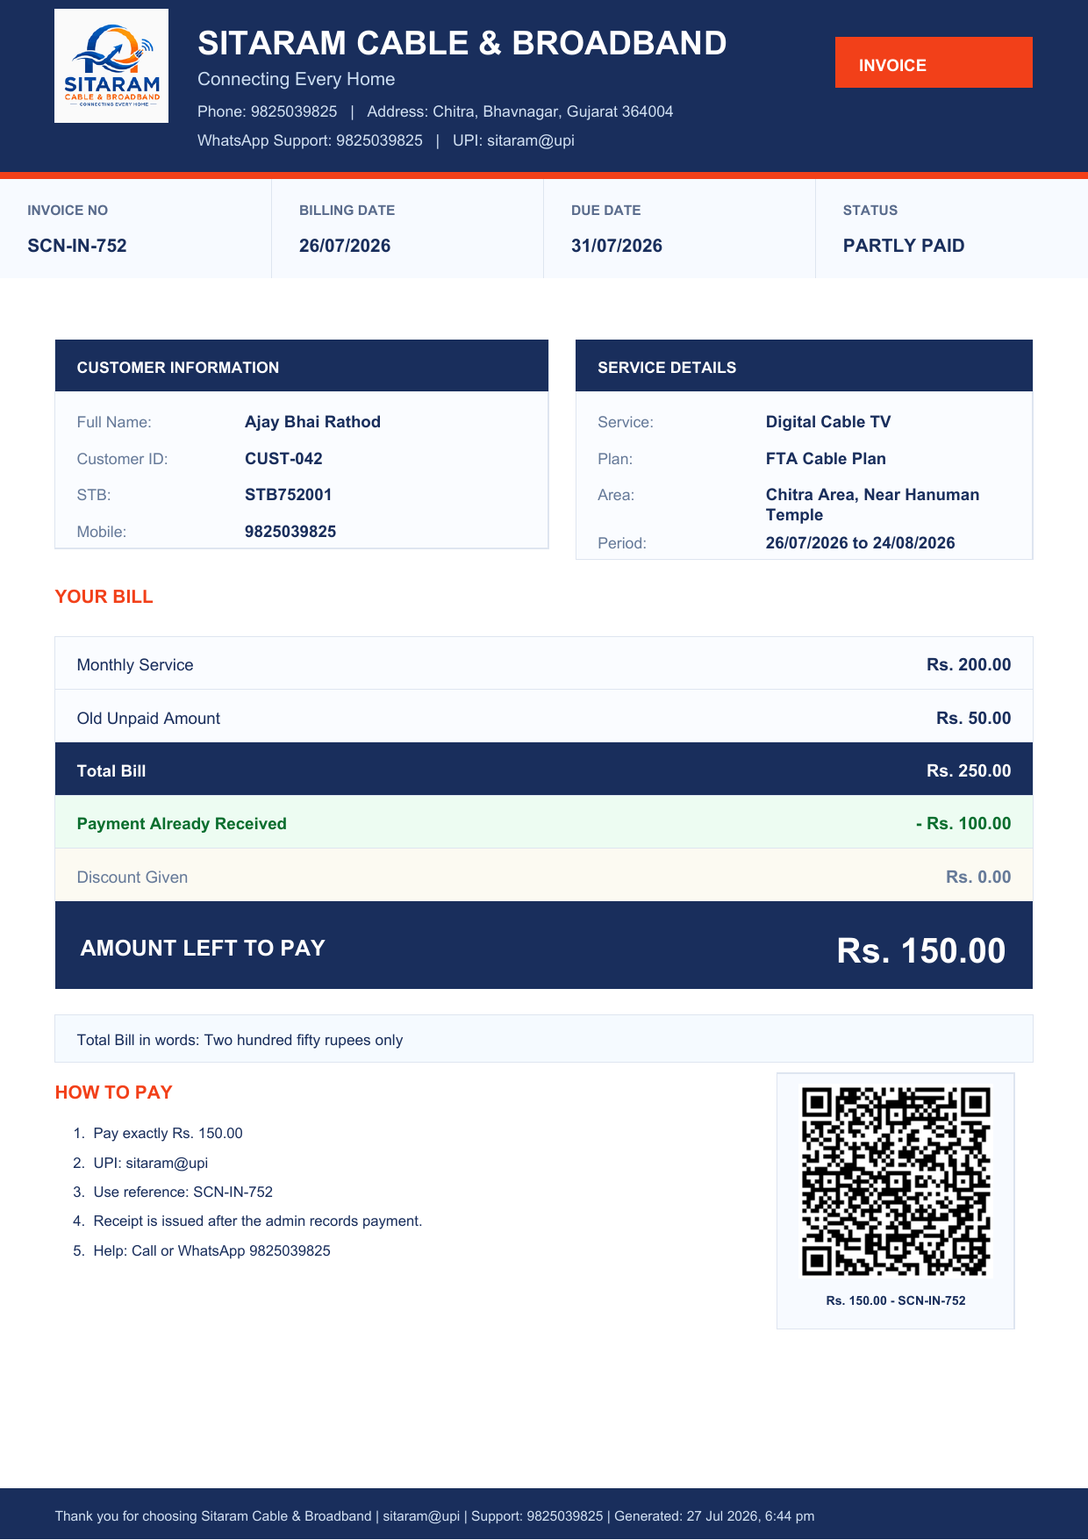
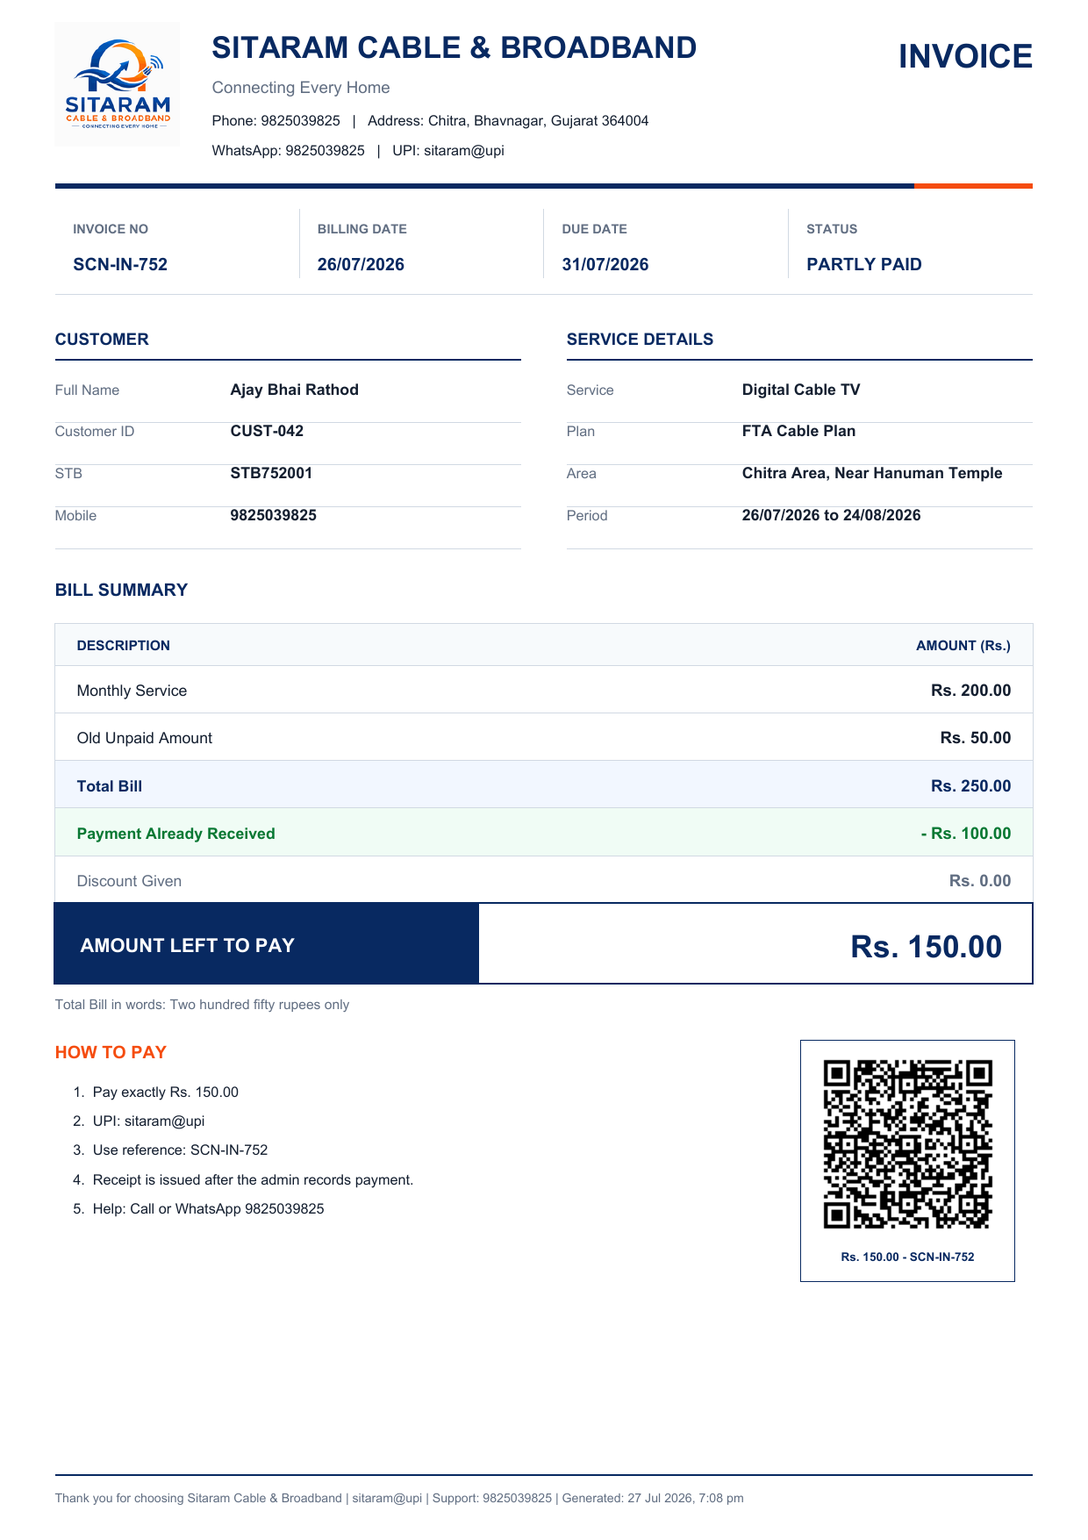
Refine branded invoice and receipt design

diff --git a/src/lib/documents.ts b/src/lib/documents.ts
@@ -219,48 +219,52 @@ type StatementData = Record<string, any>
 async function createStatementPdf(variant: StatementVariant, data: StatementData, settings: BusinessSettings) {
   const pdf = await PDFDocument.create(); const gujaratiBytes = await fetch(gujaratiFontUrl).then((response) => response.arrayBuffer())
   const fonts: StatementFonts = { regular: await pdf.embedFont(StandardFonts.Helvetica), bold: await pdf.embedFont(StandardFonts.HelveticaBold), gujarati: fontkit.create(new Uint8Array(gujaratiBytes)) }
-  const accent = variant === 'invoice' ? rgb(.95, .25, .1) : rgb(.05, .63, .28); const navy = rgb(.1, .18, .36); const pale = variant === 'invoice' ? rgb(.99, .95, .9) : rgb(.91, .98, .93); const line = rgb(.87, .9, .94); const logo = await embedLogo(pdf, settings.logoUrl || '/logo.png')
+  const navy = rgb(.03, .16, .38); const orange = rgb(.96, .3, .06); const green = rgb(.03, .47, .2); const red = rgb(.72, .12, .1)
+  const ink = rgb(.08, .12, .19); const muted = rgb(.38, .43, .51); const line = rgb(.82, .85, .89); const soft = rgb(.97, .98, .99)
+  const accent = variant === 'invoice' ? orange : green; const logo = await embedLogo(pdf, settings.logoUrl || '/logo.png')
   const serviceLabel = data.serviceType === 'broadband' ? 'Broadband Subscription' : 'Digital Cable TV'
   const generatedAt = new Intl.DateTimeFormat('en-IN', { dateStyle: 'medium', timeStyle: 'short', timeZone: 'Asia/Kolkata' }).format(new Date())
-  const page = pdf.addPage([595, 842]); const draw = (value: string, x: number, y: number, size = 10, bold = false, color = navy) => drawMixedText(page, value, x, y, size, bold ? fonts.bold : fonts.regular, fonts.gujarati, color)
+  const page = pdf.addPage([595, 842]); const draw = (value: string, x: number, y: number, size = 10, bold = false, color = ink) => drawMixedText(page, value, x, y, size, bold ? fonts.bold : fonts.regular, fonts.gujarati, color)
   const textWidth = (value: string, size: number, bold = false) => mixedTextWidth(value, size, bold ? fonts.bold : fonts.regular, fonts.gujarati)
-  page.drawRectangle({ x: 0, y: 748, width: 595, height: 94, color: navy })
-  if (logo) page.drawImage(logo, { x: 30, y: 775, width: 62, height: 62 })
-  draw(truncateText(settings.businessName || 'Sitaram Cable & Broadband', 320, 18, fonts.bold, fonts.gujarati).toUpperCase(), 108, 812, 18, true, rgb(1, 1, 1)); draw('Connecting Every Home', 108, 795, 10, false, rgb(.8, .87, .95))
-  draw(`Phone: ${settings.phoneNumbers || ''}   |   Address: ${settings.address || ''}`, 108, 778, 8.5, false, rgb(.82, .88, .95)); draw(`WhatsApp Support: ${settings.phoneNumbers || ''}   |   UPI: ${settings.upiId || '-'}`, 108, 762, 8.5, false, rgb(.82, .88, .95))
-  page.drawRectangle({ x: 457, y: variant === 'invoice' ? 794 : 787, width: 108, height: variant === 'invoice' ? 28 : 42, color: accent, borderRadius: 5 })
-  draw(variant === 'invoice' ? 'INVOICE' : 'OFFICIAL', 470, variant === 'invoice' ? 803 : 812, 9, true, rgb(1, 1, 1)); if (variant === 'receipt') draw('PAYMENT RECEIPT', 470, 798, 8.5, true, rgb(1, 1, 1))
-  page.drawRectangle({ x: 0, y: 744, width: 595, height: 4, color: accent })
+  const right = 565
+  if (logo) page.drawImage(logo, { x: 30, y: 762, width: 68, height: 68 })
+  const businessName = truncateText(settings.businessName || 'Sitaram Cable & Broadband', 300, 16.5, fonts.bold, fonts.gujarati).toUpperCase()
+  draw(businessName, 116, 810, 16.5, true, navy); draw('Connecting Every Home', 116, 791, 9, false, muted)
+  draw(truncateText(`Phone: ${settings.phoneNumbers || '-'}   |   Address: ${settings.address || '-'}`, 305, 7.8, fonts.regular, fonts.gujarati), 116, 773, 7.8, false, ink)
+  draw(truncateText(`WhatsApp: ${settings.phoneNumbers || '-'}   |   UPI: ${settings.upiId || '-'}`, 305, 7.8, fonts.regular, fonts.gujarati), 116, 757, 7.8, false, ink)
+  const documentTitle = variant === 'invoice' ? 'INVOICE' : 'PAYMENT RECEIPT'
+  draw(documentTitle, right - textWidth(documentTitle, variant === 'invoice' ? 18 : 14, true), 805, variant === 'invoice' ? 18 : 14, true, navy)
+  if (variant === 'receipt') {
+    const recorded = 'PAYMENT RECORDED'
+    draw(recorded, right - textWidth(recorded, 8, true), 783, 8, true, green)
+  }
+  page.drawRectangle({ x: 30, y: 739, width: 535, height: 2.5, color: navy })
+  page.drawRectangle({ x: 500, y: 739, width: 65, height: 2.5, color: accent })
   const info = variant === 'invoice'
     ? [['INVOICE NO', data.invoiceCode], ['BILLING DATE', statementDate(data.issuedDate)], ['DUE DATE', statementDate(data.dueDate)], ['STATUS', invoiceStatusLabel(data.status, Number(data.liveBalancePaise || 0))]]
-    : [['RECEIPT NO', data.paymentCode], ['PAYMENT DATE', statementDate(data.paymentDate)], ['PAYMENT METHOD', data.paymentMode.toUpperCase()], ['STATUS', 'PAYMENT RECORDED']]
-  page.drawRectangle({ x: 0, y: 690, width: 595, height: 54, color: variant === 'invoice' ? rgb(.97, .98, 1) : rgb(.93, 1, .95) })
-  info.forEach(([label, value], index) => { const x = index * 148.75; if (index) page.drawLine({ start: { x, y: 690 }, end: { x, y: 744 }, thickness: .5, color: line }); draw(label, x + 15, 724, 7.5, true, variant === 'invoice' ? rgb(.35, .42, .55) : rgb(.05, .48, .22)); draw(value, x + 15, 704, 10, true, navy) })
-  let y = 656
-  if (variant === 'receipt') {
-    const paidAmount = rupee(Number(data.amountReceivedPaise || 0))
-    const paidInWords = wordsForMoney(Number(data.amountReceivedPaise || 0))
-    page.drawRectangle({ x: 0, y: 560, width: 595, height: 96, color: rgb(.06, .5, .2) })
-    draw('AMOUNT PAID', 30, 620, 11, true, rgb(1, 1, 1))
-    draw(paidAmount, 565 - textWidth(paidAmount, 29, true), 603, 29, true, rgb(1, 1, 1))
-    draw(paidInWords, 565 - textWidth(paidInWords, 8.5), 580, 8.5, false, rgb(1, 1, 1))
-    y = 538
-  }
-  const drawCard = (x: number, width: number, title: string, fields: Array<[string, string]>) => {
-    const prepared = fields.map(([label, value]) => ({ label, lines: wrapText(value || '—', width - 116, 9, fonts.bold, fonts.gujarati) }))
-    const rowHeights = prepared.map(({ lines }) => Math.max(20, lines.length * 11 + 4))
-    const height = 34 + rowHeights.reduce((sum, value) => sum + value, 0)
-    const bottom = y - height
-    page.drawRectangle({ x, y: bottom, width, height, color: rgb(.98, .99, 1), borderColor: line, borderWidth: .7 })
-    page.drawRectangle({ x, y: y - 28, width, height: 28, color: navy })
-    draw(title, x + 12, y - 18, 8.5, true, rgb(1, 1, 1))
-    let rowY = y - 48
-    prepared.forEach(({ label, lines }, index) => {
-      draw(`${label}:`, x + 12, rowY, 8.5, false, rgb(.4, .48, .6))
-      lines.forEach((value, lineIndex) => draw(value, x + 104, rowY - lineIndex * 11, 9, true, navy))
-      rowY -= rowHeights[index]
+    : [['RECEIPT NO', data.paymentCode], ['PAYMENT DATE', statementDate(data.paymentDate)], ['PAYMENT METHOD', String(data.paymentMode || '-').toUpperCase()], ['AMOUNT PAID', rupee(Number(data.amountReceivedPaise || 0))]]
+  page.drawLine({ start: { x: 30, y: 681 }, end: { x: 565, y: 681 }, thickness: .65, color: line })
+  info.forEach(([label, value], index) => {
+    const width = 535 / 4; const x = 30 + index * width
+    if (index) page.drawLine({ start: { x, y: 690 }, end: { x, y: 728 }, thickness: .5, color: line })
+    draw(label, x + 10, 714, 7, true, muted)
+    draw(truncateText(String(value || '-'), width - 20, index === 3 && variant === 'receipt' ? 11 : 9.5, fonts.bold, fonts.gujarati), x + 10, 694, index === 3 && variant === 'receipt' ? 11 : 9.5, true, index === 3 && variant === 'receipt' ? green : navy)
+  })
+  let y = variant === 'receipt' ? 645 : 653
+  if (variant === 'receipt') draw(`Amount in words: ${wordsForMoney(Number(data.amountReceivedPaise || 0))}`, 30, 665, 7.5, false, muted)
+  const drawSection = (x: number, width: number, top: number, title: string, fields: Array<[string, string]>) => {
+    const prepared = fields.map(([label, value]) => ({ label, lines: wrapText(value || '-', width - 102, 8.5, fonts.bold, fonts.gujarati) }))
+    draw(title, x, top, 9, true, navy)
+    page.drawLine({ start: { x, y: top - 8 }, end: { x: x + width, y: top - 8 }, thickness: 1, color: navy })
+    let rowY = top - 27
+    prepared.forEach(({ label, lines }) => {
+      const rowHeight = Math.max(23, 10 + lines.length * 11)
+      draw(label, x, rowY, 7.8, false, muted)
+      lines.forEach((value, lineIndex) => draw(value, x + 96, rowY - lineIndex * 11, 8.5, true, ink))
+      page.drawLine({ start: { x, y: rowY - rowHeight + 8 }, end: { x: x + width, y: rowY - rowHeight + 8 }, thickness: .35, color: line })
+      rowY -= rowHeight
     })
-    return height
+    return top - rowY
   }
   if (variant === 'invoice') {
     const invoice = data as InvoiceDetail
@@ -277,49 +281,56 @@ async function createStatementPdf(variant: StatementVariant, data: StatementData
       ['Area', invoice.areaName],
       ['Period', `${statementDate(invoice.periodStart)} to ${statementDate(invoice.periodEnd)}`],
     ]
-    const customerCardHeight = drawCard(30, 270, 'CUSTOMER INFORMATION', customerFields)
-    const serviceCardHeight = drawCard(315, 250, 'SERVICE DETAILS', serviceFields)
-    y -= Math.max(customerCardHeight, serviceCardHeight) + 24
-    draw('YOUR BILL', 30, y, 10, true, accent)
-    y -= 18
+    const customerHeight = drawSection(30, 255, y, 'CUSTOMER', customerFields)
+    const serviceHeight = drawSection(310, 255, y, 'SERVICE DETAILS', serviceFields)
+    y -= Math.max(customerHeight, serviceHeight) + 18
+    draw('BILL SUMMARY', 30, y, 9.5, true, navy)
+    y -= 15
+    page.drawRectangle({ x: 30, y: y - 23, width: 535, height: 23, color: soft, borderColor: line, borderWidth: .5 })
+    draw('DESCRIPTION', 42, y - 15, 7.5, true, navy)
+    const amountHeading = 'AMOUNT (Rs.)'
+    draw(amountHeading, 553 - textWidth(amountHeading, 7.5, true), y - 15, 7.5, true, navy)
+    y -= 23
     const billRows = [
-      { label: 'Monthly Service', value: breakdown.monthlyServicePaise, background: rgb(.98, .99, 1), color: navy, bold: false },
-      { label: 'Old Unpaid Amount', value: breakdown.oldUnpaidPaise, background: rgb(.98, .99, 1), color: navy, bold: false },
-      { label: 'Total Bill', value: breakdown.totalBillPaise, background: navy, color: rgb(1, 1, 1), bold: true },
-      { label: 'Payment Already Received', value: breakdown.paymentReceivedPaise, background: rgb(.93, .99, .95), color: rgb(.04, .43, .18), bold: true, subtract: true },
-      { label: 'Discount Given', value: breakdown.discountGivenPaise, background: rgb(.99, .98, .95), color: breakdown.discountGivenPaise > 0 ? rgb(.78, .36, .03) : rgb(.4, .48, .6), bold: breakdown.discountGivenPaise > 0, subtract: true },
-      ...(breakdown.customerCreditUsedPaise > 0 ? [{ label: 'Customer Credit Used', value: breakdown.customerCreditUsedPaise, background: rgb(.96, .98, 1), color: navy, bold: false, subtract: true }] : []),
+      { label: 'Monthly Service', value: breakdown.monthlyServicePaise, color: ink, bold: false },
+      { label: 'Old Unpaid Amount', value: breakdown.oldUnpaidPaise, color: ink, bold: false },
+      { label: 'Total Bill', value: breakdown.totalBillPaise, color: navy, bold: true },
+      { label: 'Payment Already Received', value: breakdown.paymentReceivedPaise, color: green, bold: true, subtract: true },
+      { label: 'Discount Given', value: breakdown.discountGivenPaise, color: breakdown.discountGivenPaise > 0 ? orange : muted, bold: breakdown.discountGivenPaise > 0, subtract: true },
+      ...(breakdown.customerCreditUsedPaise > 0 ? [{ label: 'Customer Credit Used', value: breakdown.customerCreditUsedPaise, color: navy, bold: false, subtract: true }] : []),
     ]
-    for (const row of billRows) {
-      page.drawRectangle({ x: 30, y: y - 29, width: 535, height: 29, color: row.background, borderColor: line, borderWidth: .4 })
-      draw(row.label, 42, y - 19, 9, row.bold, row.color)
+    billRows.forEach((row, index) => {
+      if (index === 2) page.drawRectangle({ x: 30, y: y - 26, width: 535, height: 26, color: rgb(.95, .97, 1) })
+      else if (index === 3) page.drawRectangle({ x: 30, y: y - 26, width: 535, height: 26, color: rgb(.94, .99, .96) })
+      page.drawRectangle({ x: 30, y: y - 26, width: 535, height: 26, borderColor: line, borderWidth: .4 })
+      draw(row.label, 42, y - 17, 8.5, row.bold, row.color)
       const amount = `${row.subtract && row.value > 0 ? '- ' : ''}${rupee(row.value)}`
-      draw(amount, 553 - textWidth(amount, 9.5, true), y - 19, 9.5, true, row.color)
-      y -= 29
-    }
-    page.drawRectangle({ x: 30, y: y - 48, width: 535, height: 48, color: navy, borderRadius: 4 })
-    draw(breakdown.amountLeftPaise > 0 ? 'AMOUNT LEFT TO PAY' : 'NOTHING LEFT TO PAY', 44, y - 30, 12, true, rgb(1, 1, 1))
+      draw(amount, 553 - textWidth(amount, 9, true), y - 17, 9, true, row.color)
+      y -= 26
+    })
+    const dueColor = breakdown.amountLeftPaise > 0 ? navy : green
+    page.drawRectangle({ x: 30, y: y - 44, width: 535, height: 44, borderColor: dueColor, borderWidth: 1 })
+    page.drawRectangle({ x: 30, y: y - 44, width: 232, height: 44, color: dueColor })
+    draw(breakdown.amountLeftPaise > 0 ? 'AMOUNT LEFT TO PAY' : 'NOTHING LEFT TO PAY', 44, y - 27, 10.5, true, rgb(1, 1, 1))
     const amountLeft = rupee(breakdown.amountLeftPaise)
-    draw(amountLeft, 550 - textWidth(amountLeft, 19, true), y - 34, 19, true, rgb(1, 1, 1))
-    y -= 62
+    draw(amountLeft, 548 - textWidth(amountLeft, 17, true), y - 30, 17, true, dueColor)
+    y -= 58
+    draw(`Total Bill in words: ${wordsForMoney(breakdown.totalBillPaise)}`, 30, y, 7.5, false, muted)
+    y -= 27
 
-    page.drawRectangle({ x: 30, y: y - 26, width: 535, height: 26, color: rgb(.96, .98, 1), borderColor: line, borderWidth: .5 })
-    draw(`Total Bill in words: ${wordsForMoney(breakdown.totalBillPaise)}`, 42, y - 17, 8.3, false, navy)
-    y -= 46
-
-    draw(breakdown.amountLeftPaise > 0 ? 'HOW TO PAY' : 'PAYMENT STATUS', 30, y, 10, true, accent)
+    draw(breakdown.amountLeftPaise > 0 ? 'HOW TO PAY' : 'PAYMENT STATUS', 30, y, 9.5, true, orange)
     const instructions = breakdown.amountLeftPaise > 0
       ? [`Pay exactly ${rupee(breakdown.amountLeftPaise)}`, `UPI: ${settings.upiId || '-'}`, `Use reference: ${invoice.invoiceCode}`, 'Receipt is issued after the admin records payment.', `Help: Call or WhatsApp ${settings.phoneNumbers || '-'}`]
       : ['This bill is fully paid.', `Invoice reference: ${invoice.invoiceCode}`, `Help: Call or WhatsApp ${settings.phoneNumbers || '-'}`]
-    instructions.forEach((item, index) => draw(`${index + 1}.  ${item}`, 40, y - 22 - index * 16, 8, false, navy))
+    instructions.forEach((item, index) => draw(`${index + 1}.  ${item}`, 40, y - 21 - index * 16, 7.8, false, ink))
     const paymentUri = invoicePaymentUri(invoice, settings)
     if (paymentUri) {
       const qrData = await QRCode.toDataURL(paymentUri, { margin: 1, width: 140 })
       const qr = await pdf.embedPng(decodeDataUrl(qrData))
-      page.drawRectangle({ x: 425, y: y - 126, width: 130, height: 140, color: rgb(.97, .98, 1), borderColor: line, borderWidth: .8, borderRadius: 4 })
-      page.drawImage(qr, { x: 437, y: y - 98, width: 106, height: 106 })
+      page.drawRectangle({ x: 438, y: y - 122, width: 117, height: 132, borderColor: navy, borderWidth: .7 })
+      page.drawImage(qr, { x: 449, y: y - 94, width: 95, height: 95 })
       const qrCaption = `${rupee(breakdown.amountLeftPaise)} - ${invoice.invoiceCode}`
-      draw(qrCaption, 490 - textWidth(qrCaption, 6.8, true) / 2, y - 113, 6.8, true, navy)
+      draw(qrCaption, 496.5 - textWidth(qrCaption, 6.5, true) / 2, y - 111, 6.5, true, navy)
     }
   } else {
     const payment = data as PaymentDetail
@@ -337,39 +348,39 @@ async function createStatementPdf(variant: StatementVariant, data: StatementData
       ...(payment.phone ? [['Mobile', payment.phone] as [string, string]] : []),
       ['Area', payment.areaName],
     ]
-    const paymentCardHeight = drawCard(30, 270, 'PAYMENT INFORMATION', paymentFields)
-    const customerCardHeight = drawCard(315, 250, 'CUSTOMER INFORMATION', customerFields)
-    y -= Math.max(paymentCardHeight, customerCardHeight) + 24
+    const customerHeight = drawSection(30, 255, y, 'CUSTOMER', customerFields)
+    const paymentHeight = drawSection(310, 255, y, 'PAYMENT DETAILS', paymentFields)
+    y -= Math.max(customerHeight, paymentHeight) + 18
 
-    draw('WHERE THIS PAYMENT WAS USED', 30, y, 10, true, rgb(.05, .55, .24))
-    y -= 18
-    page.drawRectangle({ x: 30, y: y - 27, width: 535, height: 27, color: navy })
-    draw('Bill Item', 42, y - 18, 8, true, rgb(1, 1, 1))
+    draw('WHERE THIS PAYMENT WAS USED', 30, y, 9.5, true, navy)
+    y -= 15
+    page.drawRectangle({ x: 30, y: y - 23, width: 535, height: 23, color: navy })
+    draw('BILL ITEM', 42, y - 15, 7.5, true, rgb(1, 1, 1))
     const amountHeading = 'Amount Covered'
-    draw(amountHeading, 553 - textWidth(amountHeading, 8, true), y - 18, 8, true, rgb(1, 1, 1))
-    y -= 27
+    draw(amountHeading.toUpperCase(), 553 - textWidth(amountHeading.toUpperCase(), 7.5, true), y - 15, 7.5, true, rgb(1, 1, 1))
+    y -= 23
 
     const allocations = Array.isArray(payment.allocations) ? payment.allocations : []
     const visibleAllocations = allocations.slice(0, 3)
     if (!visibleAllocations.length) {
-      page.drawRectangle({ x: 30, y: y - 30, width: 535, height: 30, color: rgb(.98, .99, 1), borderColor: line, borderWidth: .4 })
-      draw('Payment recorded to the customer account', 42, y - 19, 8.5, false, navy)
-      y -= 30
+      page.drawRectangle({ x: 30, y: y - 28, width: 535, height: 28, color: soft, borderColor: line, borderWidth: .4 })
+      draw('Payment recorded to the customer account', 42, y - 18, 8.2, false, ink)
+      y -= 28
     }
     for (const item of visibleAllocations) {
       const label = item.chargeType === 'opening_due' ? 'Old Unpaid Amount' : 'Monthly Service'
       const period = `${item.invoiceCode} | ${statementDate(item.periodStart)} to ${statementDate(item.periodEnd)}`
       const covered = Number(item.cashPaise || 0) + Number(item.discountPaise || 0) + Number(item.creditPaise || 0)
-      page.drawRectangle({ x: 30, y: y - 34, width: 535, height: 34, color: rgb(.98, .99, 1), borderColor: line, borderWidth: .4 })
-      draw(label, 42, y - 15, 8.5, true, navy)
+      page.drawRectangle({ x: 30, y: y - 34, width: 535, height: 34, color: soft, borderColor: line, borderWidth: .4 })
+      draw(label, 42, y - 15, 8.3, true, ink)
       draw(truncateText(period, 350, 6.8, fonts.regular, fonts.gujarati), 42, y - 27, 6.8, false, rgb(.4, .48, .6))
       const coveredAmount = rupee(covered)
-      draw(coveredAmount, 553 - textWidth(coveredAmount, 8.5, true), y - 21, 8.5, true, navy)
+      draw(coveredAmount, 553 - textWidth(coveredAmount, 8.5, true), y - 21, 8.5, true, ink)
       y -= 34
     }
     if (allocations.length > visibleAllocations.length) {
       const remaining = `${allocations.length - visibleAllocations.length} more bill item(s) are saved in the customer account.`
-      page.drawRectangle({ x: 30, y: y - 20, width: 535, height: 20, color: rgb(.96, .98, 1) })
+      page.drawRectangle({ x: 30, y: y - 20, width: 535, height: 20, color: soft })
       draw(remaining, 42, y - 14, 7.2, false, rgb(.4, .48, .6))
       y -= 20
     }
@@ -380,27 +391,33 @@ async function createStatementPdf(variant: StatementVariant, data: StatementData
       ...(breakdown.customerCreditUsedPaise > 0 ? [{ label: 'Customer Credit Used', value: breakdown.customerCreditUsedPaise, color: navy, bold: false }] : []),
       { label: 'Total Bill Covered', value: breakdown.totalBillCoveredPaise, color: navy, bold: true },
     ]
-    for (const row of receiptRows) {
-      page.drawRectangle({ x: 30, y: y - 25, width: 535, height: 25, color: rgb(.98, .99, 1), borderColor: line, borderWidth: .4 })
+    receiptRows.forEach((row, index) => {
+      if (index === 0) page.drawRectangle({ x: 30, y: y - 24, width: 535, height: 24, color: rgb(.94, .99, .96) })
+      else if (index === receiptRows.length - 1) page.drawRectangle({ x: 30, y: y - 24, width: 535, height: 24, color: rgb(.95, .97, 1) })
+      page.drawRectangle({ x: 30, y: y - 24, width: 535, height: 24, borderColor: line, borderWidth: .4 })
       draw(row.label, 42, y - 17, 8.5, row.bold, row.color)
       const amount = rupee(row.value)
       draw(amount, 553 - textWidth(amount, 9, true), y - 17, 9, true, row.color)
-      y -= 25
-    }
+      y -= 24
+    })
 
-    const unpaidColor = breakdown.amountStillUnpaidPaise > 0 ? rgb(.72, .13, .1) : rgb(.04, .43, .18)
-    page.drawRectangle({ x: 30, y: y - 42, width: 535, height: 42, color: breakdown.amountStillUnpaidPaise > 0 ? rgb(1, .95, .95) : rgb(.93, .99, .95), borderColor: unpaidColor, borderWidth: .8, borderRadius: 4 })
-    draw(breakdown.amountStillUnpaidPaise > 0 ? 'AMOUNT STILL UNPAID' : 'NOTHING LEFT UNPAID', 42, y - 27, 10.5, true, unpaidColor)
+    const unpaidColor = breakdown.amountStillUnpaidPaise > 0 ? red : green
+    page.drawRectangle({ x: 30, y: y - 40, width: 535, height: 40, color: breakdown.amountStillUnpaidPaise > 0 ? rgb(1, .97, .97) : rgb(.95, .99, .96), borderColor: unpaidColor, borderWidth: .8 })
+    draw(breakdown.amountStillUnpaidPaise > 0 ? 'AMOUNT STILL UNPAID' : 'NOTHING LEFT UNPAID', 42, y - 25, 9.5, true, unpaidColor)
     const unpaidAmount = rupee(breakdown.amountStillUnpaidPaise)
-    draw(unpaidAmount, 553 - textWidth(unpaidAmount, 15, true), y - 30, 15, true, unpaidColor)
-    y -= 56
+    draw(unpaidAmount, 553 - textWidth(unpaidAmount, 14, true), y - 27, 14, true, unpaidColor)
+    y -= 53
 
-    page.drawRectangle({ x: 30, y: y - 28, width: 535, height: 28, color: pale })
-    draw('Customer Account Status', 42, y - 19, 8.5, true, navy)
+    page.drawLine({ start: { x: 30, y }, end: { x: 565, y }, thickness: .55, color: line })
+    draw('Customer Account Status', 30, y - 18, 8.2, true, ink)
     const accountStatus = breakdown.amountStillUnpaidPaise > 0 ? 'PARTLY PAID' : 'FULLY PAID'
-    draw(accountStatus, 553 - textWidth(accountStatus, 9, true), y - 19, 9, true, breakdown.amountStillUnpaidPaise > 0 ? rgb(.78, .36, .03) : rgb(.04, .43, .18))
+    draw(accountStatus, 565 - textWidth(accountStatus, 8.5, true), y - 18, 8.5, true, breakdown.amountStillUnpaidPaise > 0 ? orange : green)
   }
-  page.drawRectangle({ x: 0, y: 0, width: 595, height: 28, color: navy }); draw(variant === 'invoice' ? `Thank you for choosing ${settings.businessName || 'Sitaram Billing'} | ${settings.upiId || ''} | Support: ${settings.phoneNumbers || ''} | Generated: ${generatedAt}` : `Computer Generated Receipt - No Signature Required | ${settings.businessName || 'Sitaram Billing'} | ${settings.phoneNumbers || ''} | Generated: ${generatedAt}`, 30, 10, 7.5, false, rgb(.82, .88, .95))
+  page.drawLine({ start: { x: 30, y: 35 }, end: { x: 565, y: 35 }, thickness: 1, color: navy })
+  const footer = variant === 'invoice'
+    ? `Thank you for choosing ${settings.businessName || 'Sitaram Billing'} | ${settings.upiId || ''} | Support: ${settings.phoneNumbers || ''} | Generated: ${generatedAt}`
+    : `Computer Generated Receipt - No Signature Required | ${settings.businessName || 'Sitaram Billing'} | ${settings.phoneNumbers || ''} | Generated: ${generatedAt}`
+  draw(truncateText(footer, 535, 6.8, fonts.regular, fonts.gujarati), 30, 20, 6.8, false, muted)
   return pdf.save({ useObjectStreams: false })
 }
 

diff --git a/tests/documents.test.ts b/tests/documents.test.ts
@@ -66,7 +66,7 @@ describe('PDF generation', () => {
       allocations: [{ invoiceCode: 'INV-001', periodStart: '2026-07-19', periodEnd: '2026-08-17', chargeType: 'service', cashPaise: 15000, discountPaise: 5000, creditPaise: 0 }],
     }
     const bytes = await receiptPdfBytes(payment, settings)
-    expect(bytes.byteLength).toBeGreaterThan(5_000)
+    expect(bytes.byteLength).toBeGreaterThan(4_000)
     expect((await PDFDocument.load(bytes)).getPageCount()).toBe(1)
   })
 
